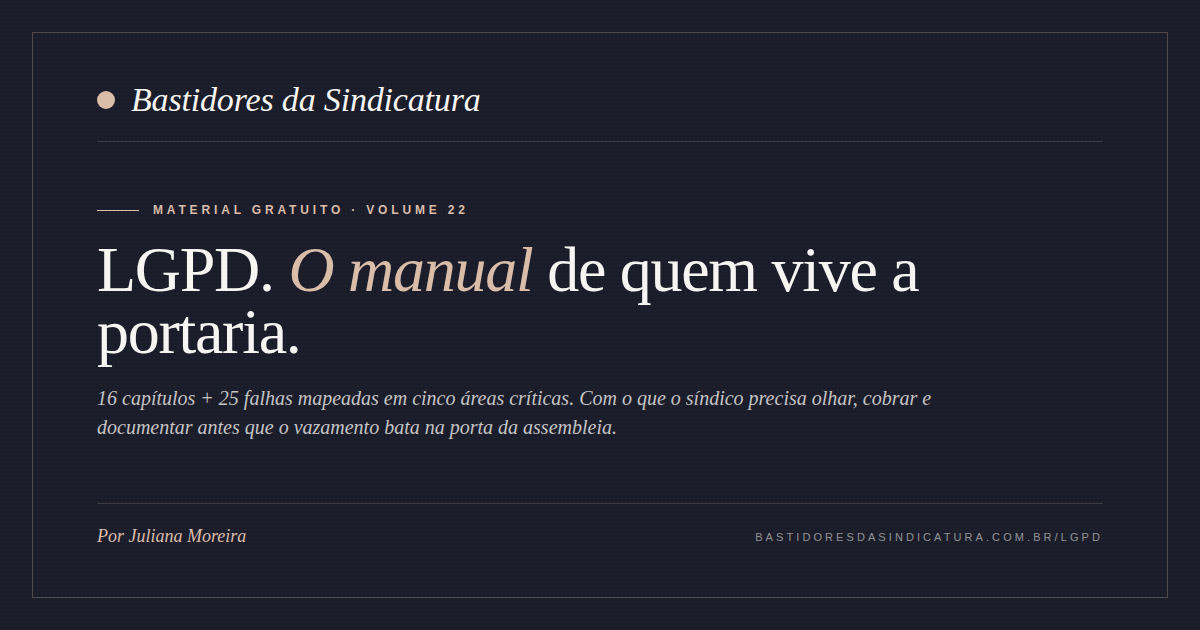
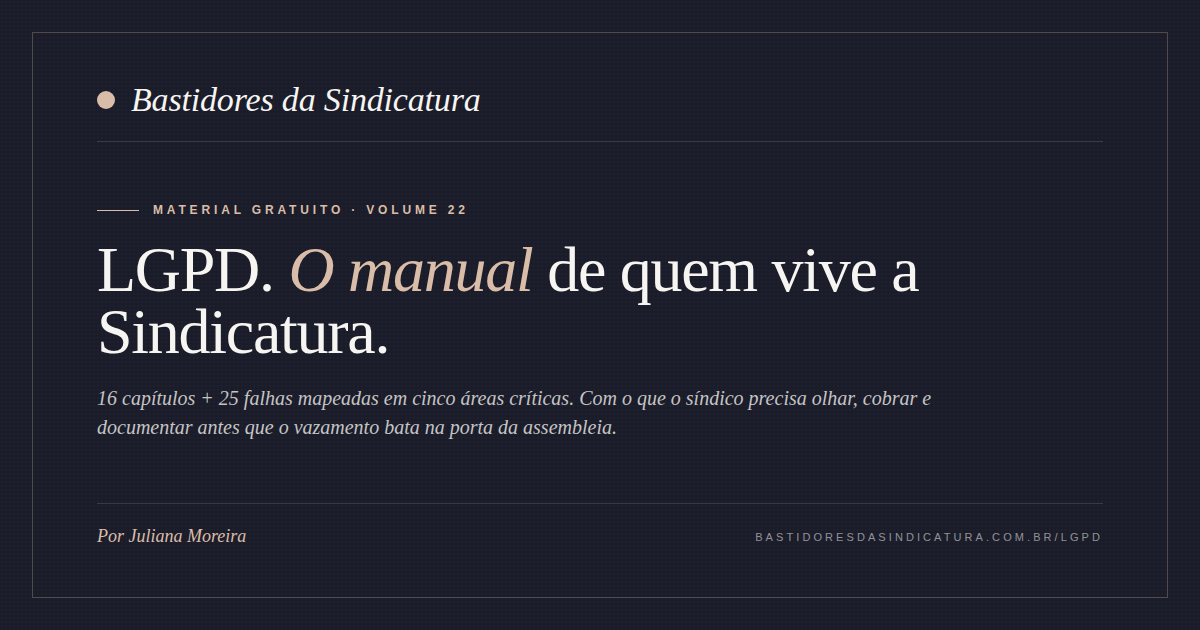
LGPD: troca "portaria" por "Sindicatura" na frase-âncora
Frase-âncora do LGPD mudou de "O manual de quem vive a portaria"
pra "O manual de quem vive a Sindicatura" — mais alinhado com a
marca e com o público real (síndicos profissionais).

Atualiza em 4 lugares pra ficar consistente:
- site/lgpd/index.html · hero title (l3)
- site/lgpd/index.html · og:image:alt (fallback textual)
- site/admin/admin.jsx · MATERIAL_BROADCASTS.lgpd
  (também moderniza pro padrão "guia gratuito · [tema]" das outras)
- site/membros/index.html · MATERIAIS.V22.desc
- site/assets/og/og-lgpd.png · regenerada com Chromium headless

Cache-bust admin v=20260619y.

Cache do WhatsApp na landing /lgpd/ vai continuar mostrando a
imagem antiga por até 7 dias (mesmo processo dos posts anteriores).
Pra forçar refresh usa o Facebook Debugger ou compartilha com ?v=2.

Claude-Session: https://claude.ai/code/session_01VvNsoEAkYUuV9838Bp8qS7

Changed region(s): [[0.0617, 0.4825, 0.3392, 0.573]]

diff --git a/site/membros/index.html b/site/membros/index.html
@@ -842,7 +842,7 @@
 
     const MATERIAIS = [
       {volume:'V23', eyebrow:'Volume 23 · Guia técnico', titulo:'Reforma Tributária nos Condomínios', desc:'O que já está definido e o que ainda depende de regulamentação. Guia técnico baseado na LC 214/2025 e no Decreto 12.955/2026. Regra dos 80%, regime regular opcional, energia com geração compartilhada e checklist prático. Data de corte: agosto/2026.', pdf:'/reforma-tributaria/material.pdf', landing:'/reforma-tributaria/', tags:['guia']},
-      {volume:'V22', eyebrow:'Volume 22 · Guia definitivo', titulo:'LGPD em Condomínios', desc:'O manual pra quem vive a portaria. 16 capítulos + 25 falhas mapeadas em cinco áreas críticas (cadastro, portaria, câmeras, comunicação e fornecedor). Sem juridiquês, com o que o síndico precisa olhar, cobrar e documentar antes que o vazamento bata na porta da assembleia.', pdf:'/lgpd/material.pdf', landing:'/lgpd/', tags:['guia']},
+      {volume:'V22', eyebrow:'Volume 22 · Guia definitivo', titulo:'LGPD em Condomínios', desc:'O manual de quem vive a Sindicatura. 16 capítulos + 25 falhas mapeadas em cinco áreas críticas (cadastro, portaria, câmeras, comunicação e fornecedor). Sem juridiquês, com o que o síndico precisa olhar, cobrar e documentar antes que o vazamento bata na porta da assembleia.', pdf:'/lgpd/material.pdf', landing:'/lgpd/', tags:['guia']},
       {volume:'V21', eyebrow:'Volume 21 · Guia prático', titulo:'Carregadores elétricos em condomínios', desc:'O que o síndico precisa saber antes de aprovar. 27 capítulos + 4 modelos prontos sobre marco regulatório (NBR 17019, NBR 5410, IEC 61851-1, LIGABOM 029/2025), fluxo de aprovação, checklist e termo de responsabilidade.', pdf:'/carregadores/material.pdf', landing:'/carregadores/', tags:['guia']},
       {volume:'V18', eyebrow:'Volume 18 · Guia da Copa do Mundo', titulo:'As 50 confusões da Copa no condomínio', desc:'Guia jurídico e prático para atravessar a Copa sem crise. 50 situações típicas (fachada, WhatsApp, segurança, barulho, áreas comuns, famílias, exageros) com base legal, matriz jurídica, kit de comunicados prontos, plano de ação em 7 marcos e 5 checklists operacionais.', pdf:'/copa-condominio/material.pdf', landing:'/copa-condominio/', tags:['guia']},
       {volume:'V20', eyebrow:'Volume 20 · Guia prático', titulo:'Terceirizados em Condomínios', desc:'O que ninguém fiscaliza até dar problema. 30 capítulos sobre risco, contrato, fiscalização, jornada, desvio de função, acidente, LGPD + 4 bônus.', pdf:'/terceirizados/material.pdf', landing:'/terceirizados/', tags:['guia']},

diff --git a/site/admin/admin.jsx b/site/admin/admin.jsx
@@ -4013,9 +4013,9 @@ const MATERIAL_BROADCASTS = [
   {
     origem: 'lgpd',
     nome: 'LGPD em Condomínios',
-    eyebrow: 'Volume 22 · Guia definitivo',
-    titulo: 'LGPD não é projeto jurídico. É projeto de gestão.',
-    desc: 'O manual pra quem vive a portaria. 16 capítulos e 25 falhas mapeadas em cinco áreas críticas — cadastro, portaria, câmeras, comunicação e fornecedor. Sem juridiquês, sem terror, com o que o síndico precisa olhar, cobrar e documentar antes que o vazamento bata na porta da assembleia.',
+    eyebrow: 'Guia gratuito · LGPD em condomínios',
+    titulo: 'LGPD. O manual de quem vive a Sindicatura.',
+    desc: 'Preparei um material prático em PDF para síndicos, administradoras e conselheiros. 16 capítulos e 25 falhas mapeadas em cinco áreas críticas — cadastro, portaria, câmeras, comunicação e fornecedor. Sem juridiquês, com o que você precisa olhar, cobrar e documentar antes que o vazamento bata na porta da assembleia.',
     landingPath: '/lgpd/',
     ctaLabel: 'Baixar o guia em PDF',
   },

diff --git a/site/lgpd/index.html b/site/lgpd/index.html
@@ -73,7 +73,7 @@
   <meta property="og:image" content="https://bastidoresdasindicatura.com.br/assets/og/og-lgpd.png" />
   <meta property="og:image:width" content="1200" />
   <meta property="og:image:height" content="630" />
-  <meta property="og:image:alt" content="Guia · LGPD em Condomínios · O manual de quem vive a portaria · Bastidores da Sindicatura" />
+  <meta property="og:image:alt" content="Guia · LGPD em Condomínios · O manual de quem vive a Sindicatura · Bastidores da Sindicatura" />
 
   <!-- Twitter Card -->
   <meta name="twitter:card" content="summary_large_image" />
@@ -603,7 +603,7 @@
                 <h1 className="ck-hero-title">
                   <span className="l1">LGPD.</span>
                   <span className="l2">O manual</span>
-                  <span className="l3">de quem vive a portaria.</span>
+                  <span className="l3">de quem vive a Sindicatura.</span>
                 </h1>
 
                 <p className="ck-hero-lead">

diff --git a/site/admin/index.html b/site/admin/index.html
@@ -20,7 +20,7 @@
 </head>
 <body>
   <div id="root"></div>
-  <script src="br-states.js?v=20260619x"></script>
-  <script type="text/babel" src="admin.jsx?v=20260619x"></script>
+  <script src="br-states.js?v=20260619y"></script>
+  <script type="text/babel" src="admin.jsx?v=20260619y"></script>
 </body>
 </html>
